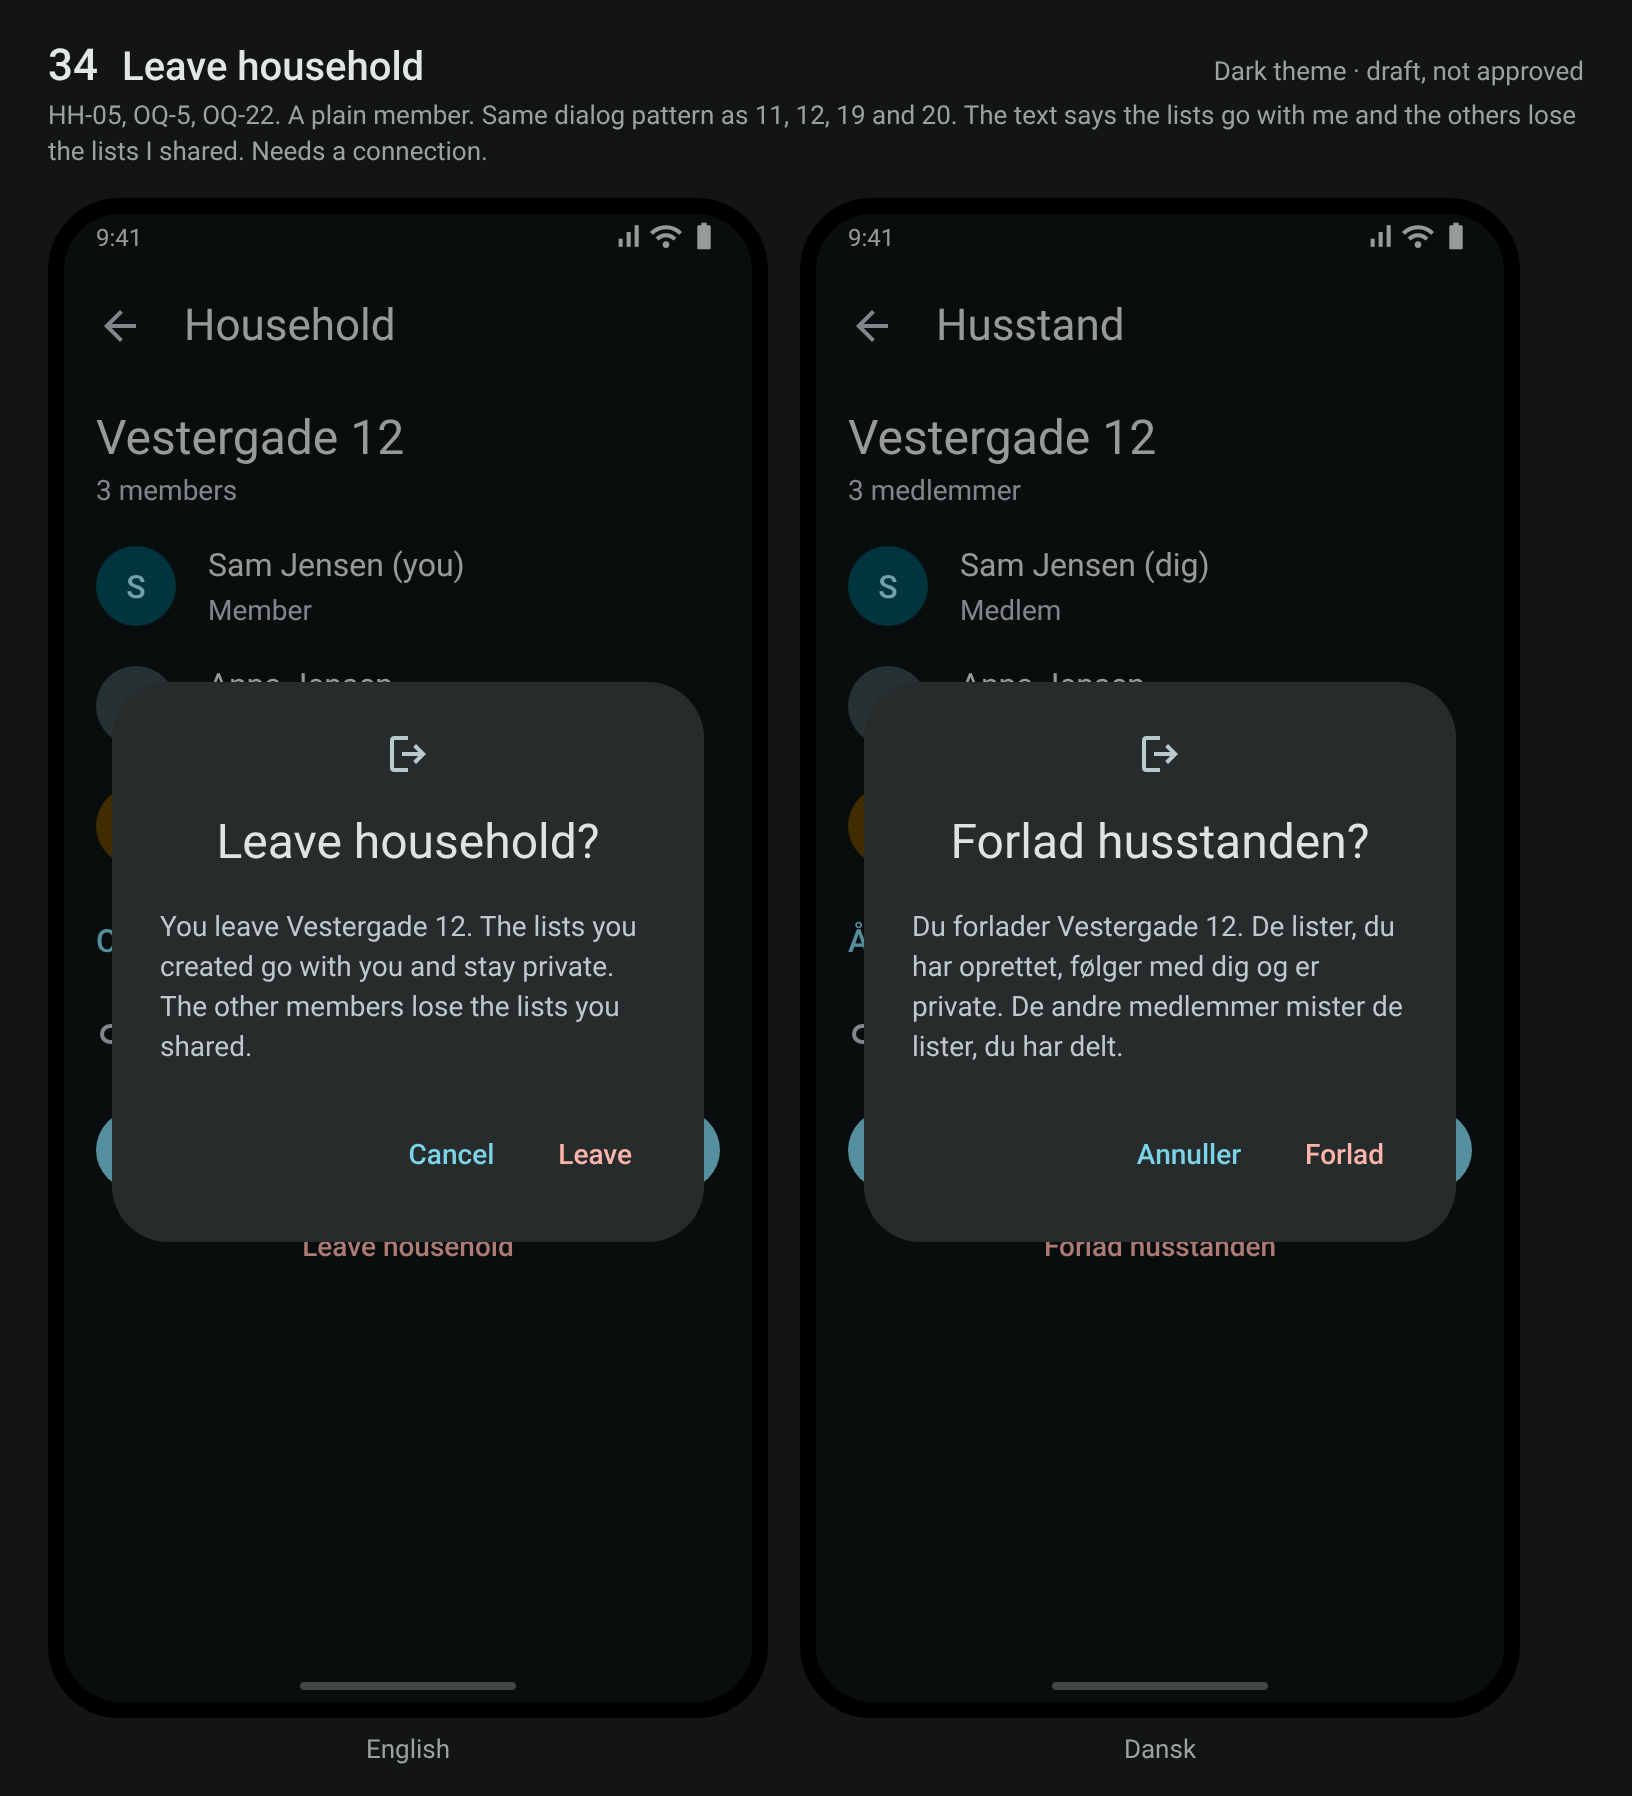
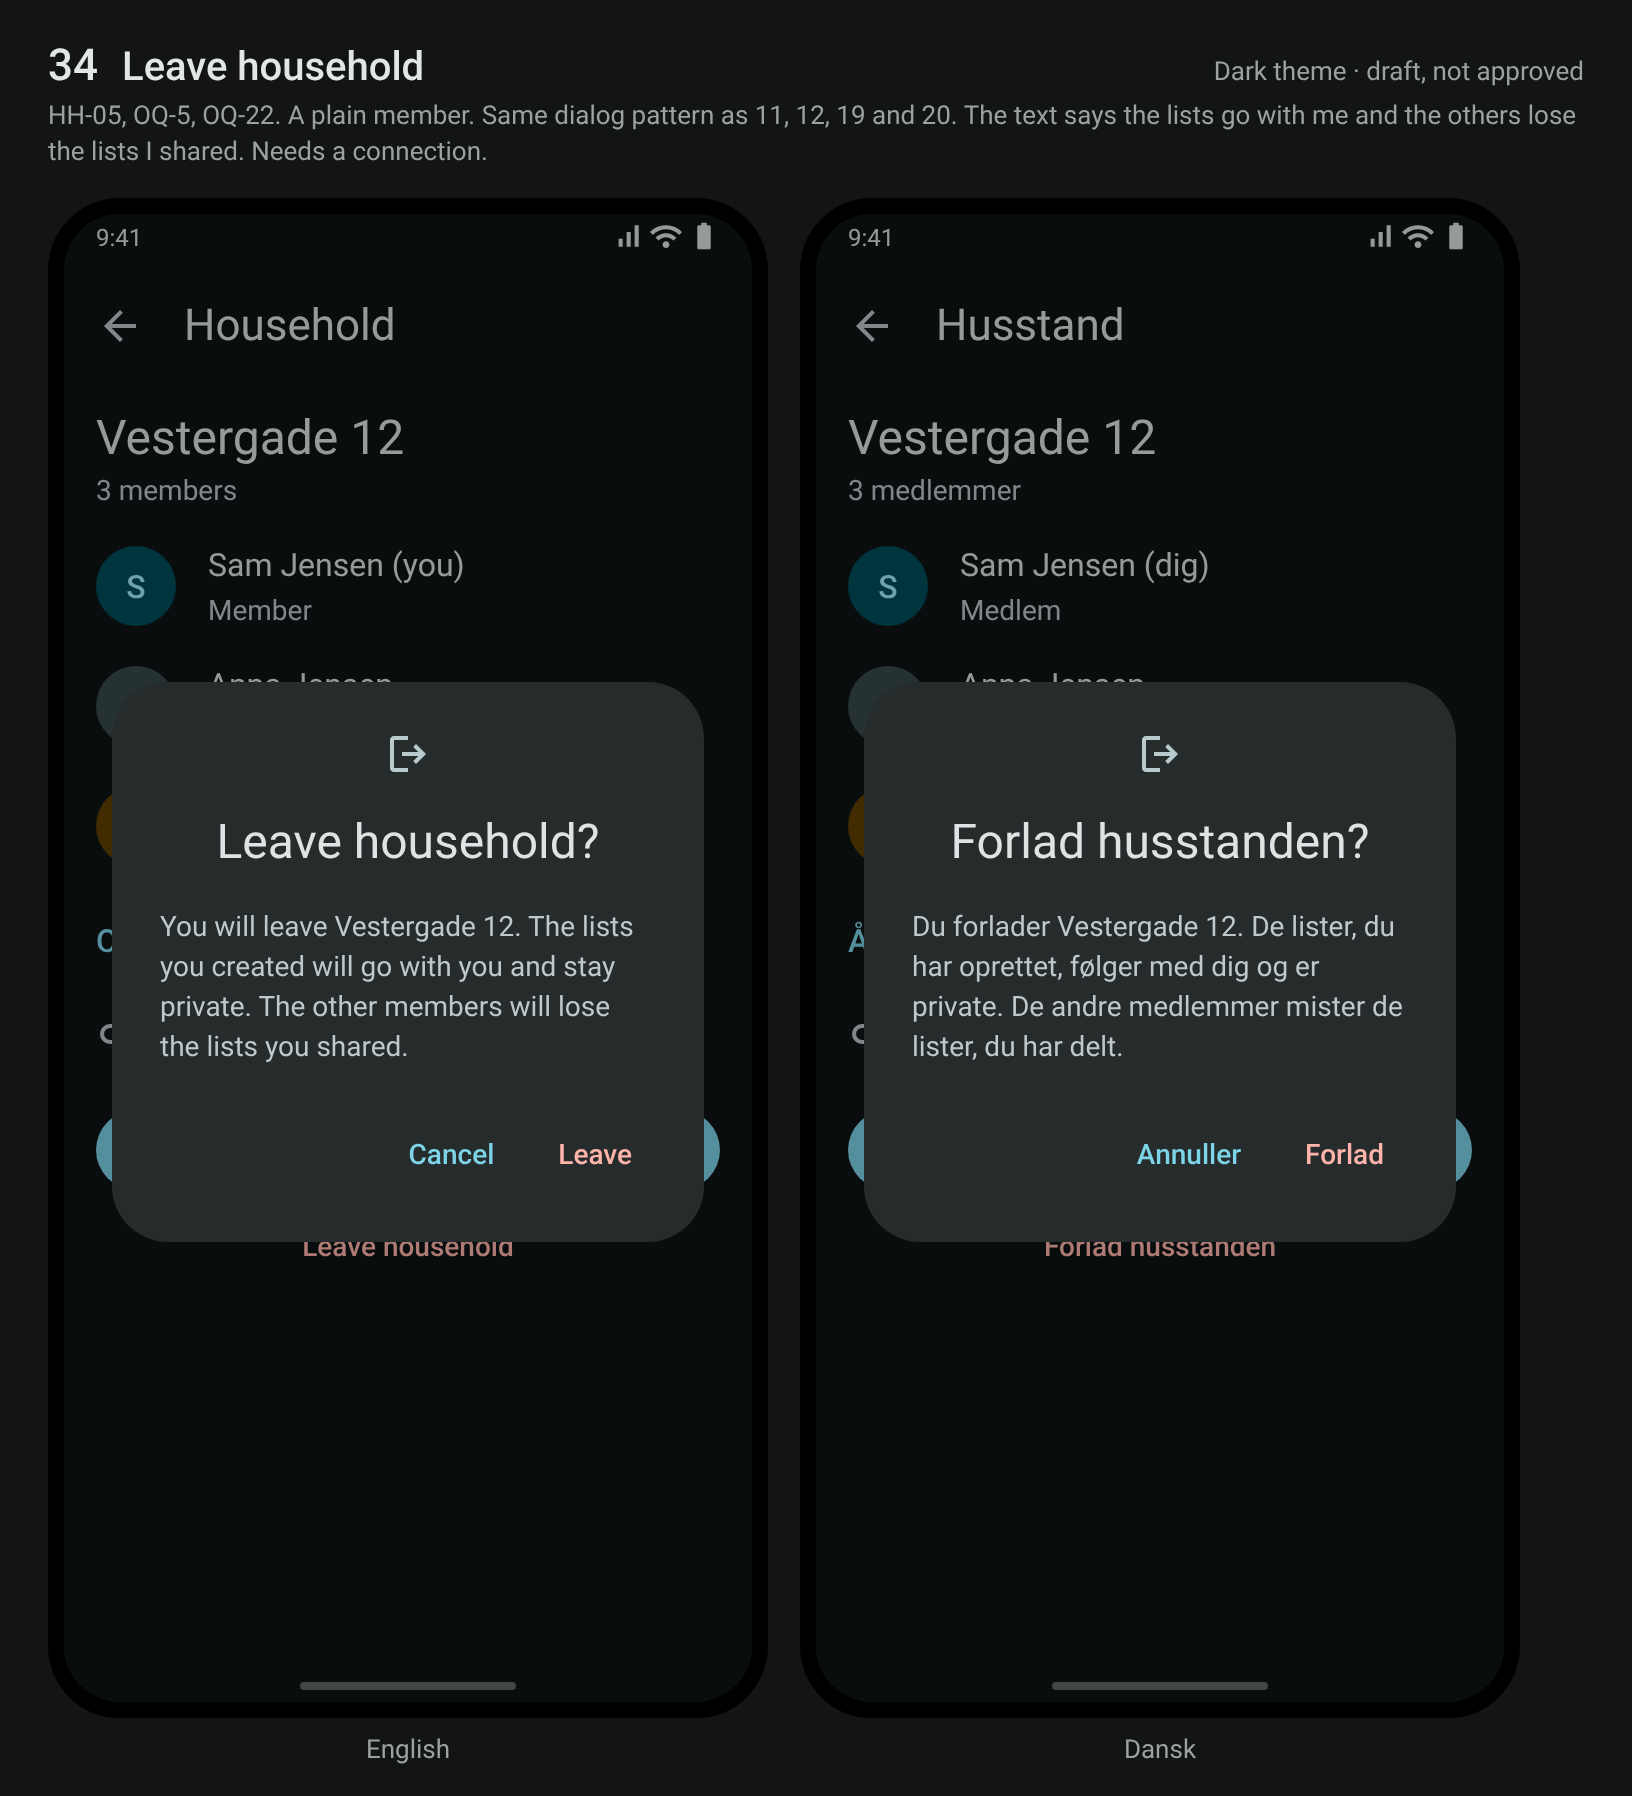
docs: future tense in the leave and sign-out confirmations (owner, #15 comment 7007828415); caption 44 names the non-Gmail row (R3-01)
PNGs 34, 39 and 44 re-rendered truecolour per the wireframes README.

Claude-Session: https://claude.ai/code/session_013srDQhMqky9FrW9HLVgezq

Changed region(s): [[0.0938, 0.4989, 0.375, 0.5924]]

diff --git a/docs/product/wireframes/wireframes.html b/docs/product/wireframes/wireframes.html
@@ -251,7 +251,7 @@ const S = {
     editName: 'Edit your name',
     crash: 'Send crash reports', crashNote: 'Off until you turn it on. Helps fix crashes.',
     leaveQ: 'Leave household?', leave: 'Leave',
-    leaveBody: h => `You leave ${h}. The lists you created go with you and stay private. The other members lose the lists you shared.`,
+    leaveBody: h => `You will leave ${h}. The lists you created will go with you and stay private. The other members will lose the lists you shared.`,
     removeQ: n => `Remove ${n}?`,
     removeBody: n => `${n} loses access to the lists others shared. The lists ${n} created go with ${n}, so the other members lose the lists ${n} shared.`,
     ownerQ: n => `Make ${n} household owner?`, makeOwnerBtn: 'Make owner',
@@ -260,7 +260,7 @@ const S = {
     deleteHhBody: h => `${h} is deleted for all members and cannot be restored. Shared lists go back to the people who created them, private, with all their items.`,
     transferFirst: 'Transfer ownership first', toHousehold: 'Go to household',
     transferFirstBody: 'You are the household owner and other members remain. Make another member the household owner, then delete your account. Nothing has been deleted.',
-    leaveHh: 'Leave household', signOutQ: 'Sign out?', signOutBody2: 'Changes you made may not have been sent yet. If you sign out now, they may be lost.', signOutBody: 'Some changes have not been sent yet. If you sign out now, they are lost.', signOutAnyway: 'Sign out anyway',
+    leaveHh: 'Leave household', signOutQ: 'Sign out?', signOutBody2: 'Changes you made may not have been sent yet. If you sign out now, they may be lost.', signOutBody: 'Some changes have not been sent yet. If you sign out now, they will be lost.', signOutAnyway: 'Sign out anyway',
     removedQ: 'You were removed from the household',
     removedBody: h => `You were removed from ${h}. The lists you created stay with you and are private. You no longer see lists others shared.`,
     updateTitle: 'Update the app', updateBody: 'This version of Tally is too old to work. Get the new version, then open it.',
@@ -603,7 +603,7 @@ const SCREENS = [
   { id: '43', t: 'Edit your name', refs: 'AUTH-12. From Account (18). Same name rules as 42 and 26; the household sees the new name at once. Needs a connection.',
     f: s => accountScreen(s) + dialog({ title: s.editName, extra: `<div style="margin-top:var(--sp-s)">${field({ label: s.yourName, value: 'Sam Jensen', state: 'focus', caret: true })}</div>`,
       acts: `<span class="btn text">${s.cancel}</span><span class="btn text">${s.save}</span>` }) },
-  { id: '44', t: 'Google sign-in, email already has a password account', refs: 'AUTH-10, OQ-34(a) (decided 2026-11-17, M1.md). A non-Gmail Google account whose email has a password account: no second account, nothing lost. Shown on the sign-in screen.',
+  { id: '44', t: 'Google sign-in, email already has a password account', refs: 'AUTH-10, OQ-34(a), non-Gmail (decided 2026-11-17, M1.md). A non-Gmail Google account whose email has a password account: no second account, nothing lost. Shown on the sign-in screen.',
     f: s => signInScreen(s, msgCard('error', s.collision)) },
 ];
 

diff --git a/docs/product/stories.md b/docs/product/stories.md
@@ -70,7 +70,7 @@ once.
   out", then I am always asked to confirm that changes not yet sent will be lost; "Cancel" keeps me signed in and "Sign
   out anyway" signs me out (M1-14).
 * Given that confirmation and an unsent change is known, then it says "Some changes have not been sent yet. If you sign
-  out now, they are lost." / "Nogle ændringer er ikke sendt endnu. Hvis du logger ud nu, går de tabt." (wireframe 39).
+  out now, they will be lost." / "Nogle ændringer er ikke sendt endnu. Hvis du logger ud nu, går de tabt." (wireframe 39).
 * Given that confirmation and no unsent change is known (a write can wait with no screen listening), then it says
   "Changes you made may not have been sent yet. If you sign out now, they may be lost." / "Ændringer, du har lavet, er
   måske ikke sendt endnu. Hvis du logger ud nu, kan de gå tabt." (wireframe 45).
